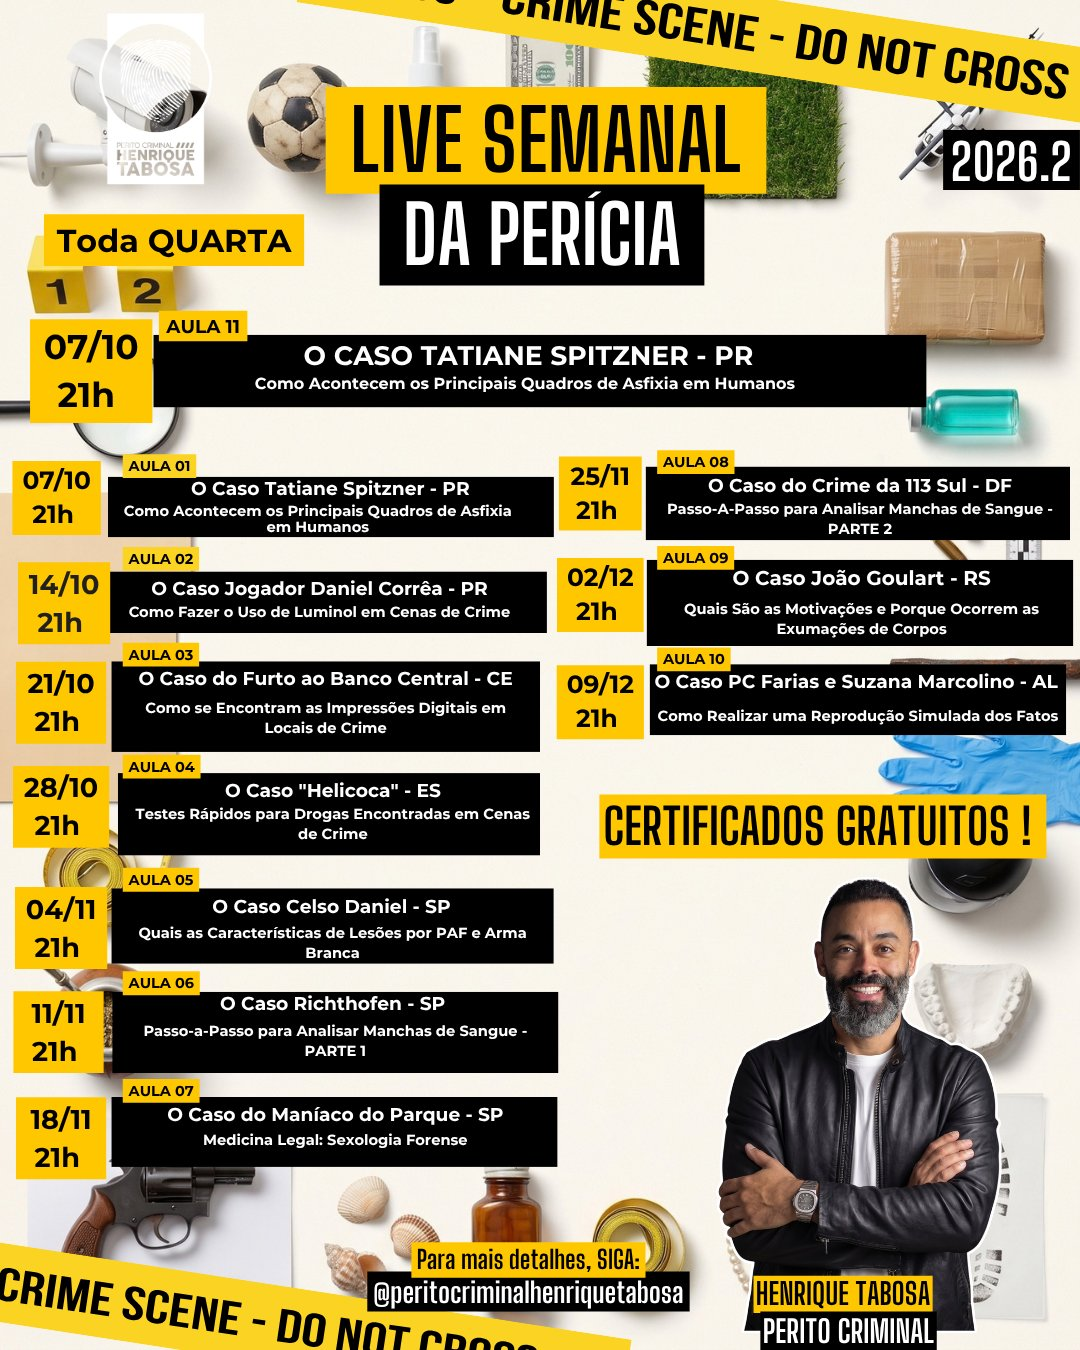
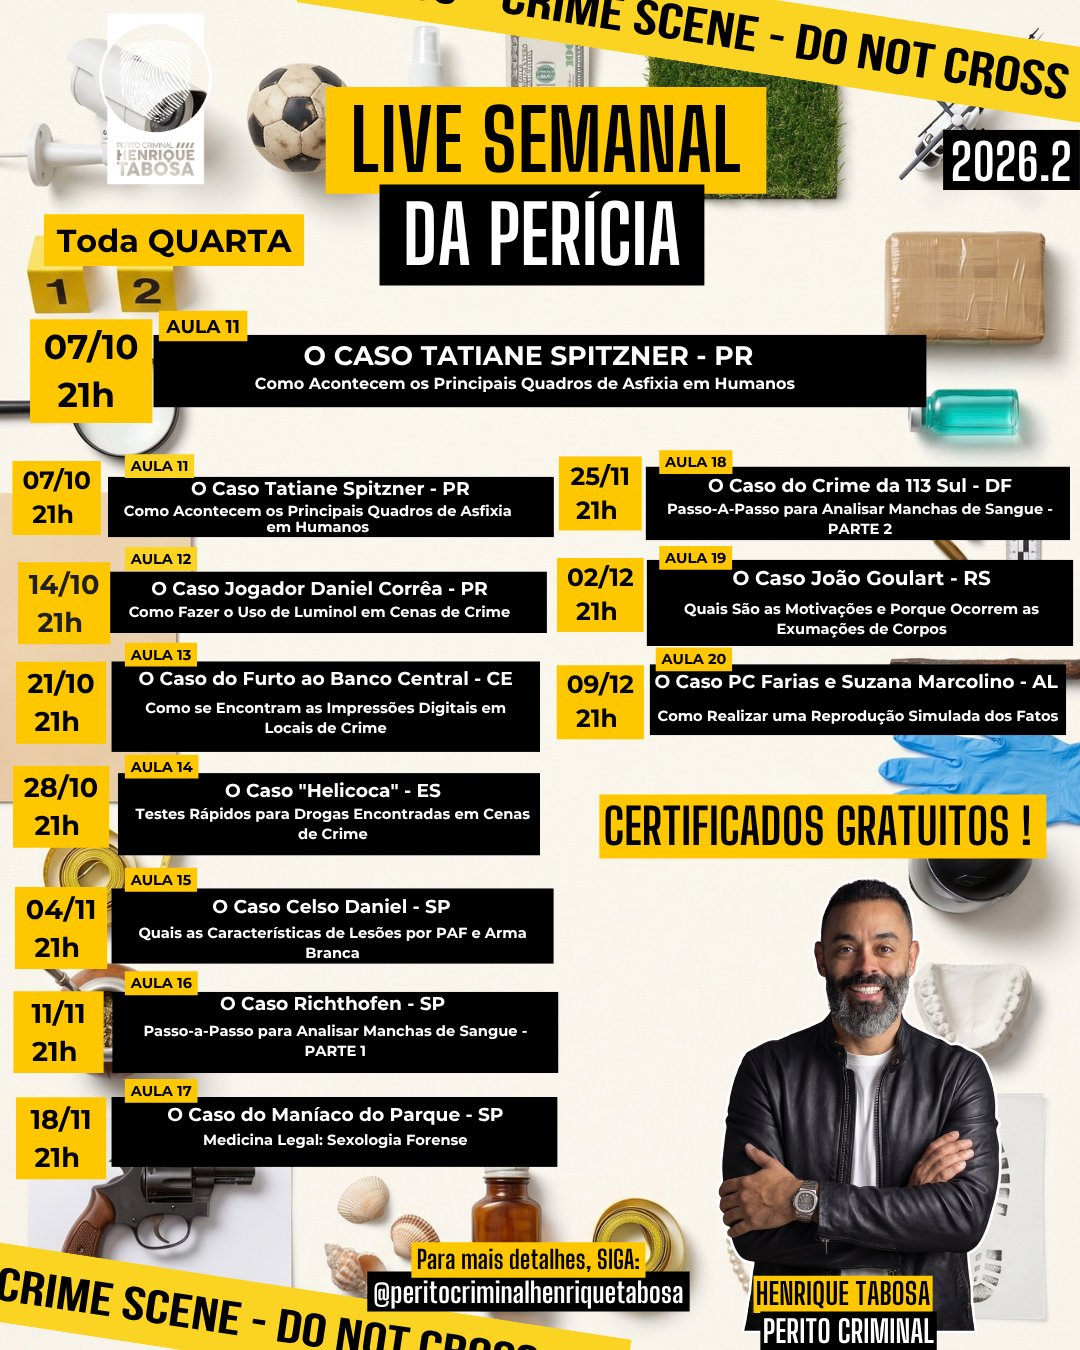
Lives: Bloco B na página inicial + cartaz corrigido (aulas 11 a 20)

diff --git a/index.html b/index.html
@@ -430,10 +430,10 @@ footer a:hover{color:var(--amarelo)}
   <div class="blocoB">
     <span class="ic">🗓</span>
     <div>
-      <h3>Bloco B — aulas 11 a 20 em preparação</h3>
-      <p>Os próximos casos e as datas saem no Instagram e na comunidade do WhatsApp. Quem tem o Acesso Total recebe as novas aulas automaticamente.</p>
+      <h3>Bloco B — aulas 11 a 20 · de 07/10 a 09/12</h3>
+      <p>Começa na quarta <b>07/10, às 21h</b>, com a <b>Aula 11 — O Caso Tatiane Spitzner (PR)</b>: como acontecem os principais quadros de asfixia em humanos. Depois vêm Daniel Corrêa, Banco Central, "Helicoca", Celso Daniel, Richthofen, Maníaco do Parque, 113 Sul, João Goulart e PC Farias. Quem tem o Acesso Total recebe as novas aulas automaticamente.</p>
     </div>
-    <a class="btn btn-ghost btn-sm" href="https://www.instagram.com/peritocriminalhenriquetabosa" target="_blank" rel="noopener">📸 Acompanhar</a>
+    <a class="btn btn-ghost btn-sm" href="calendario.html">🗓 Ver as 10 datas</a>
   </div>
 </div></section>
 
